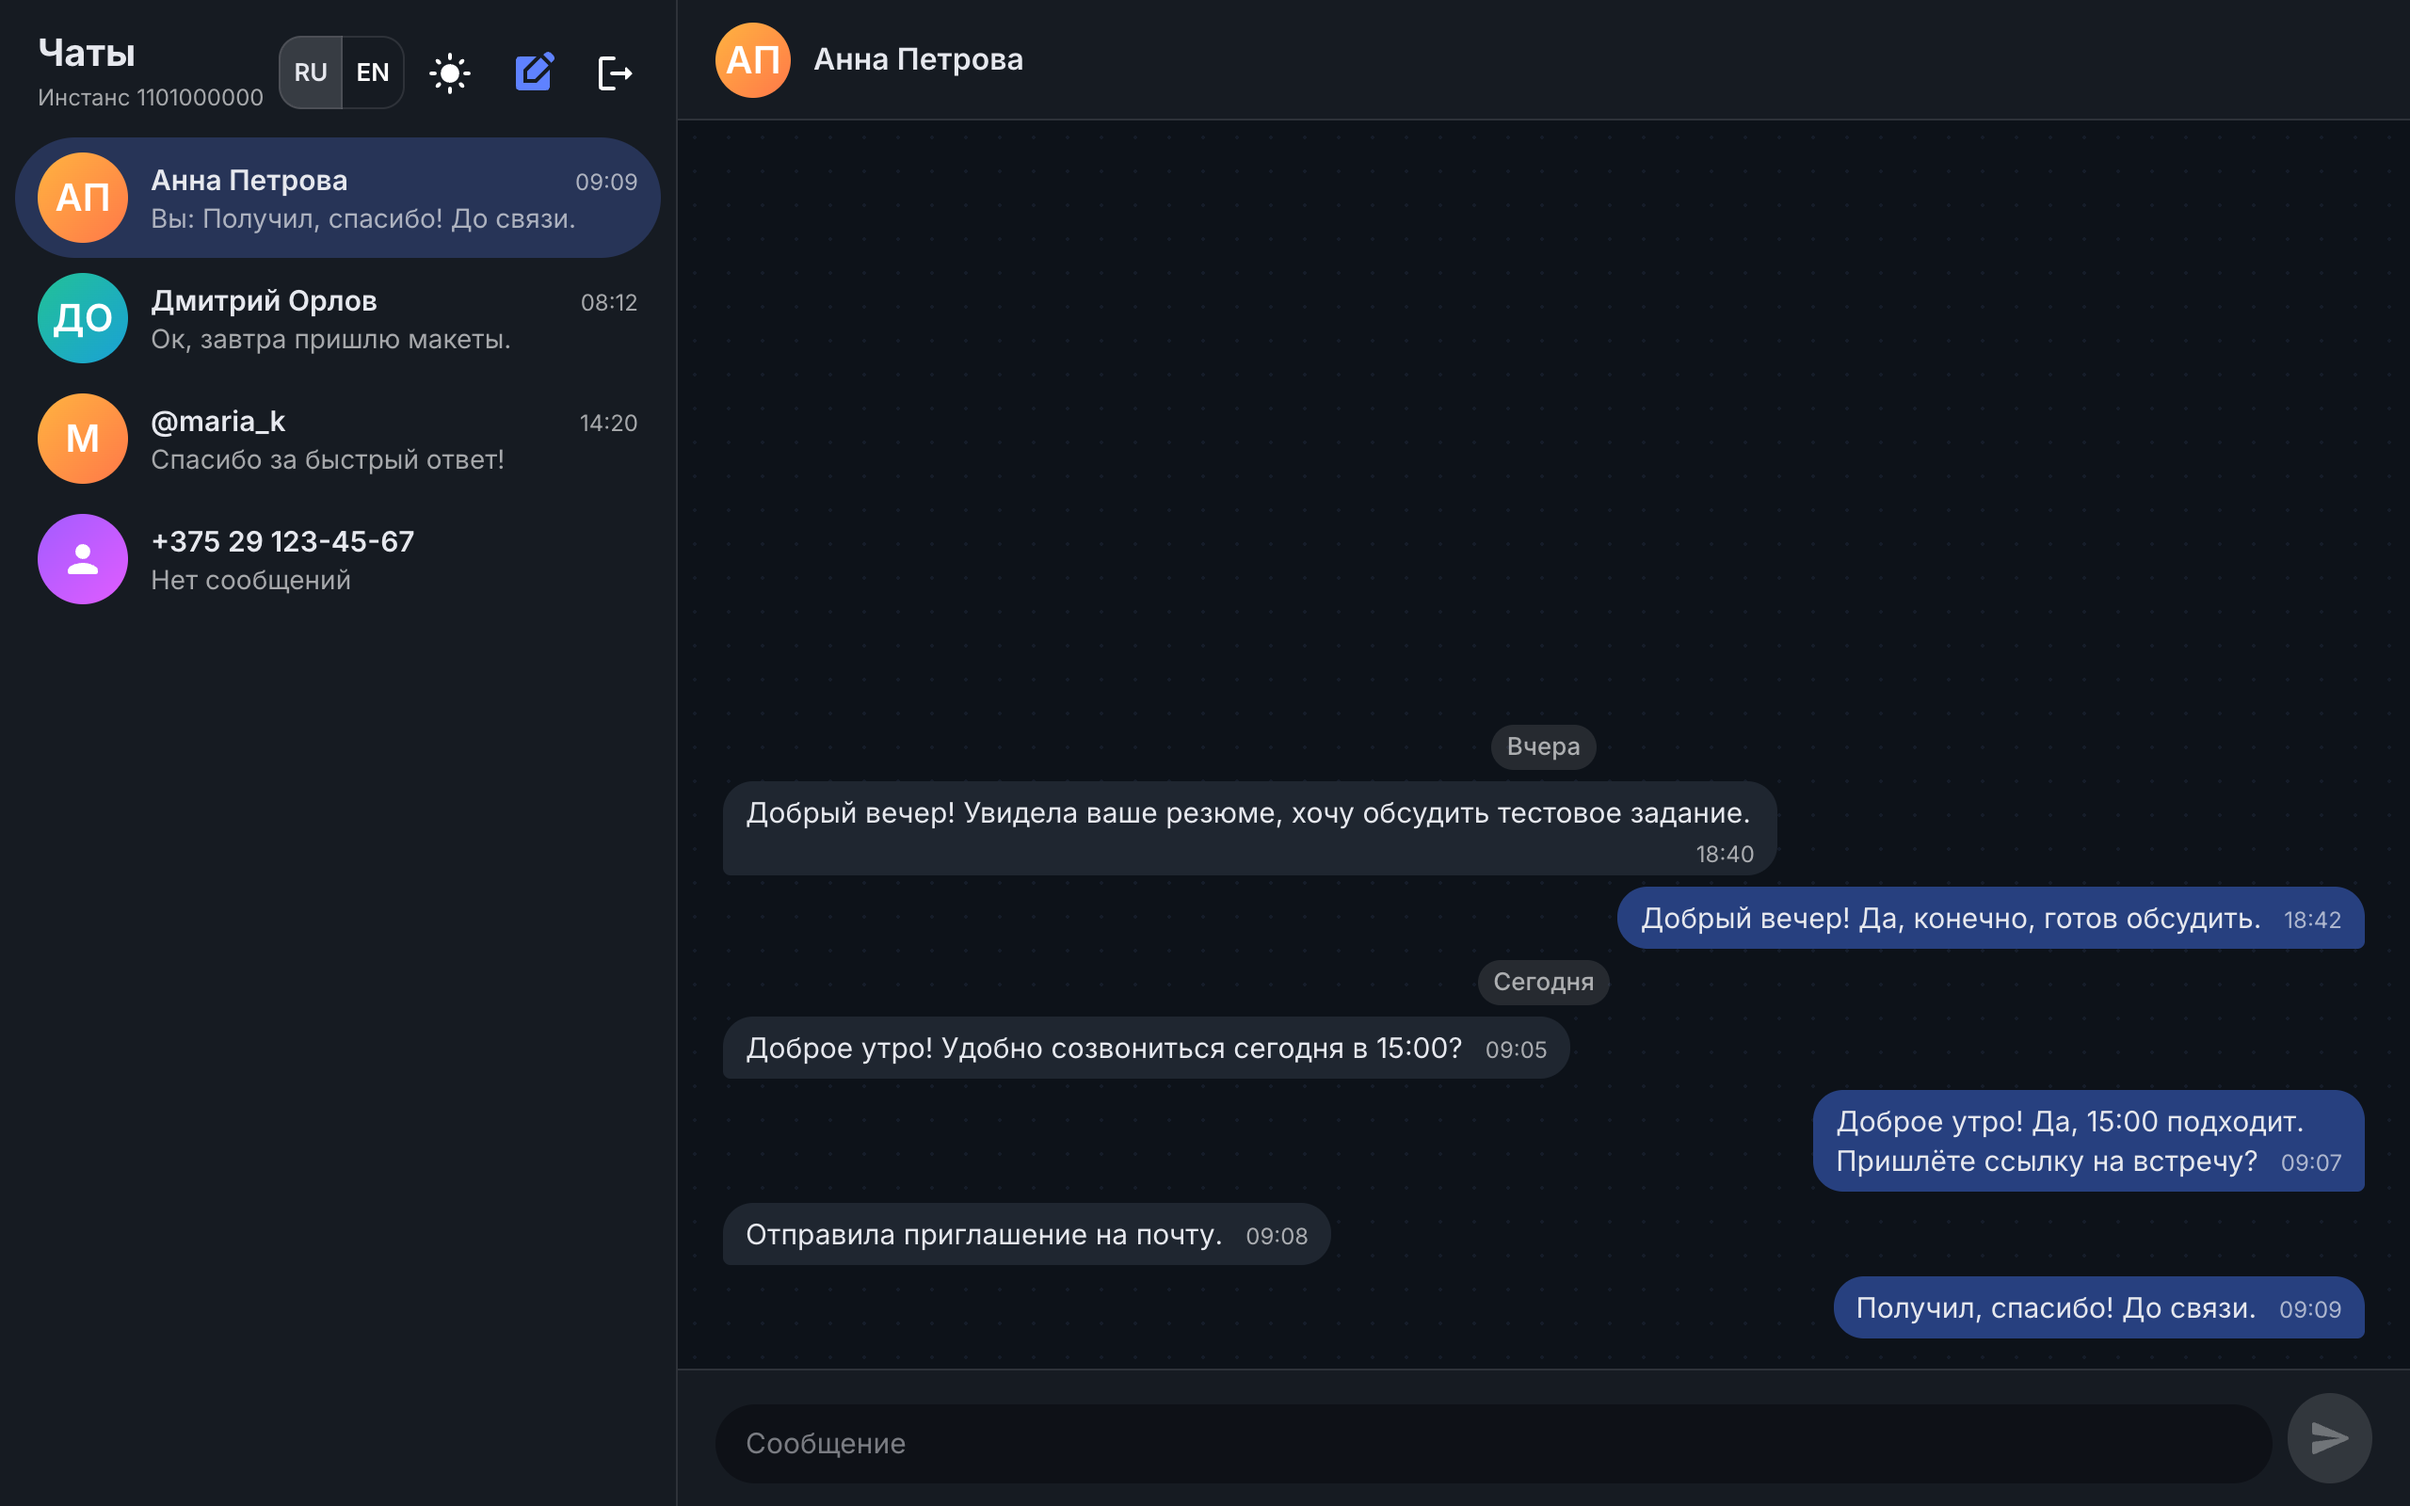
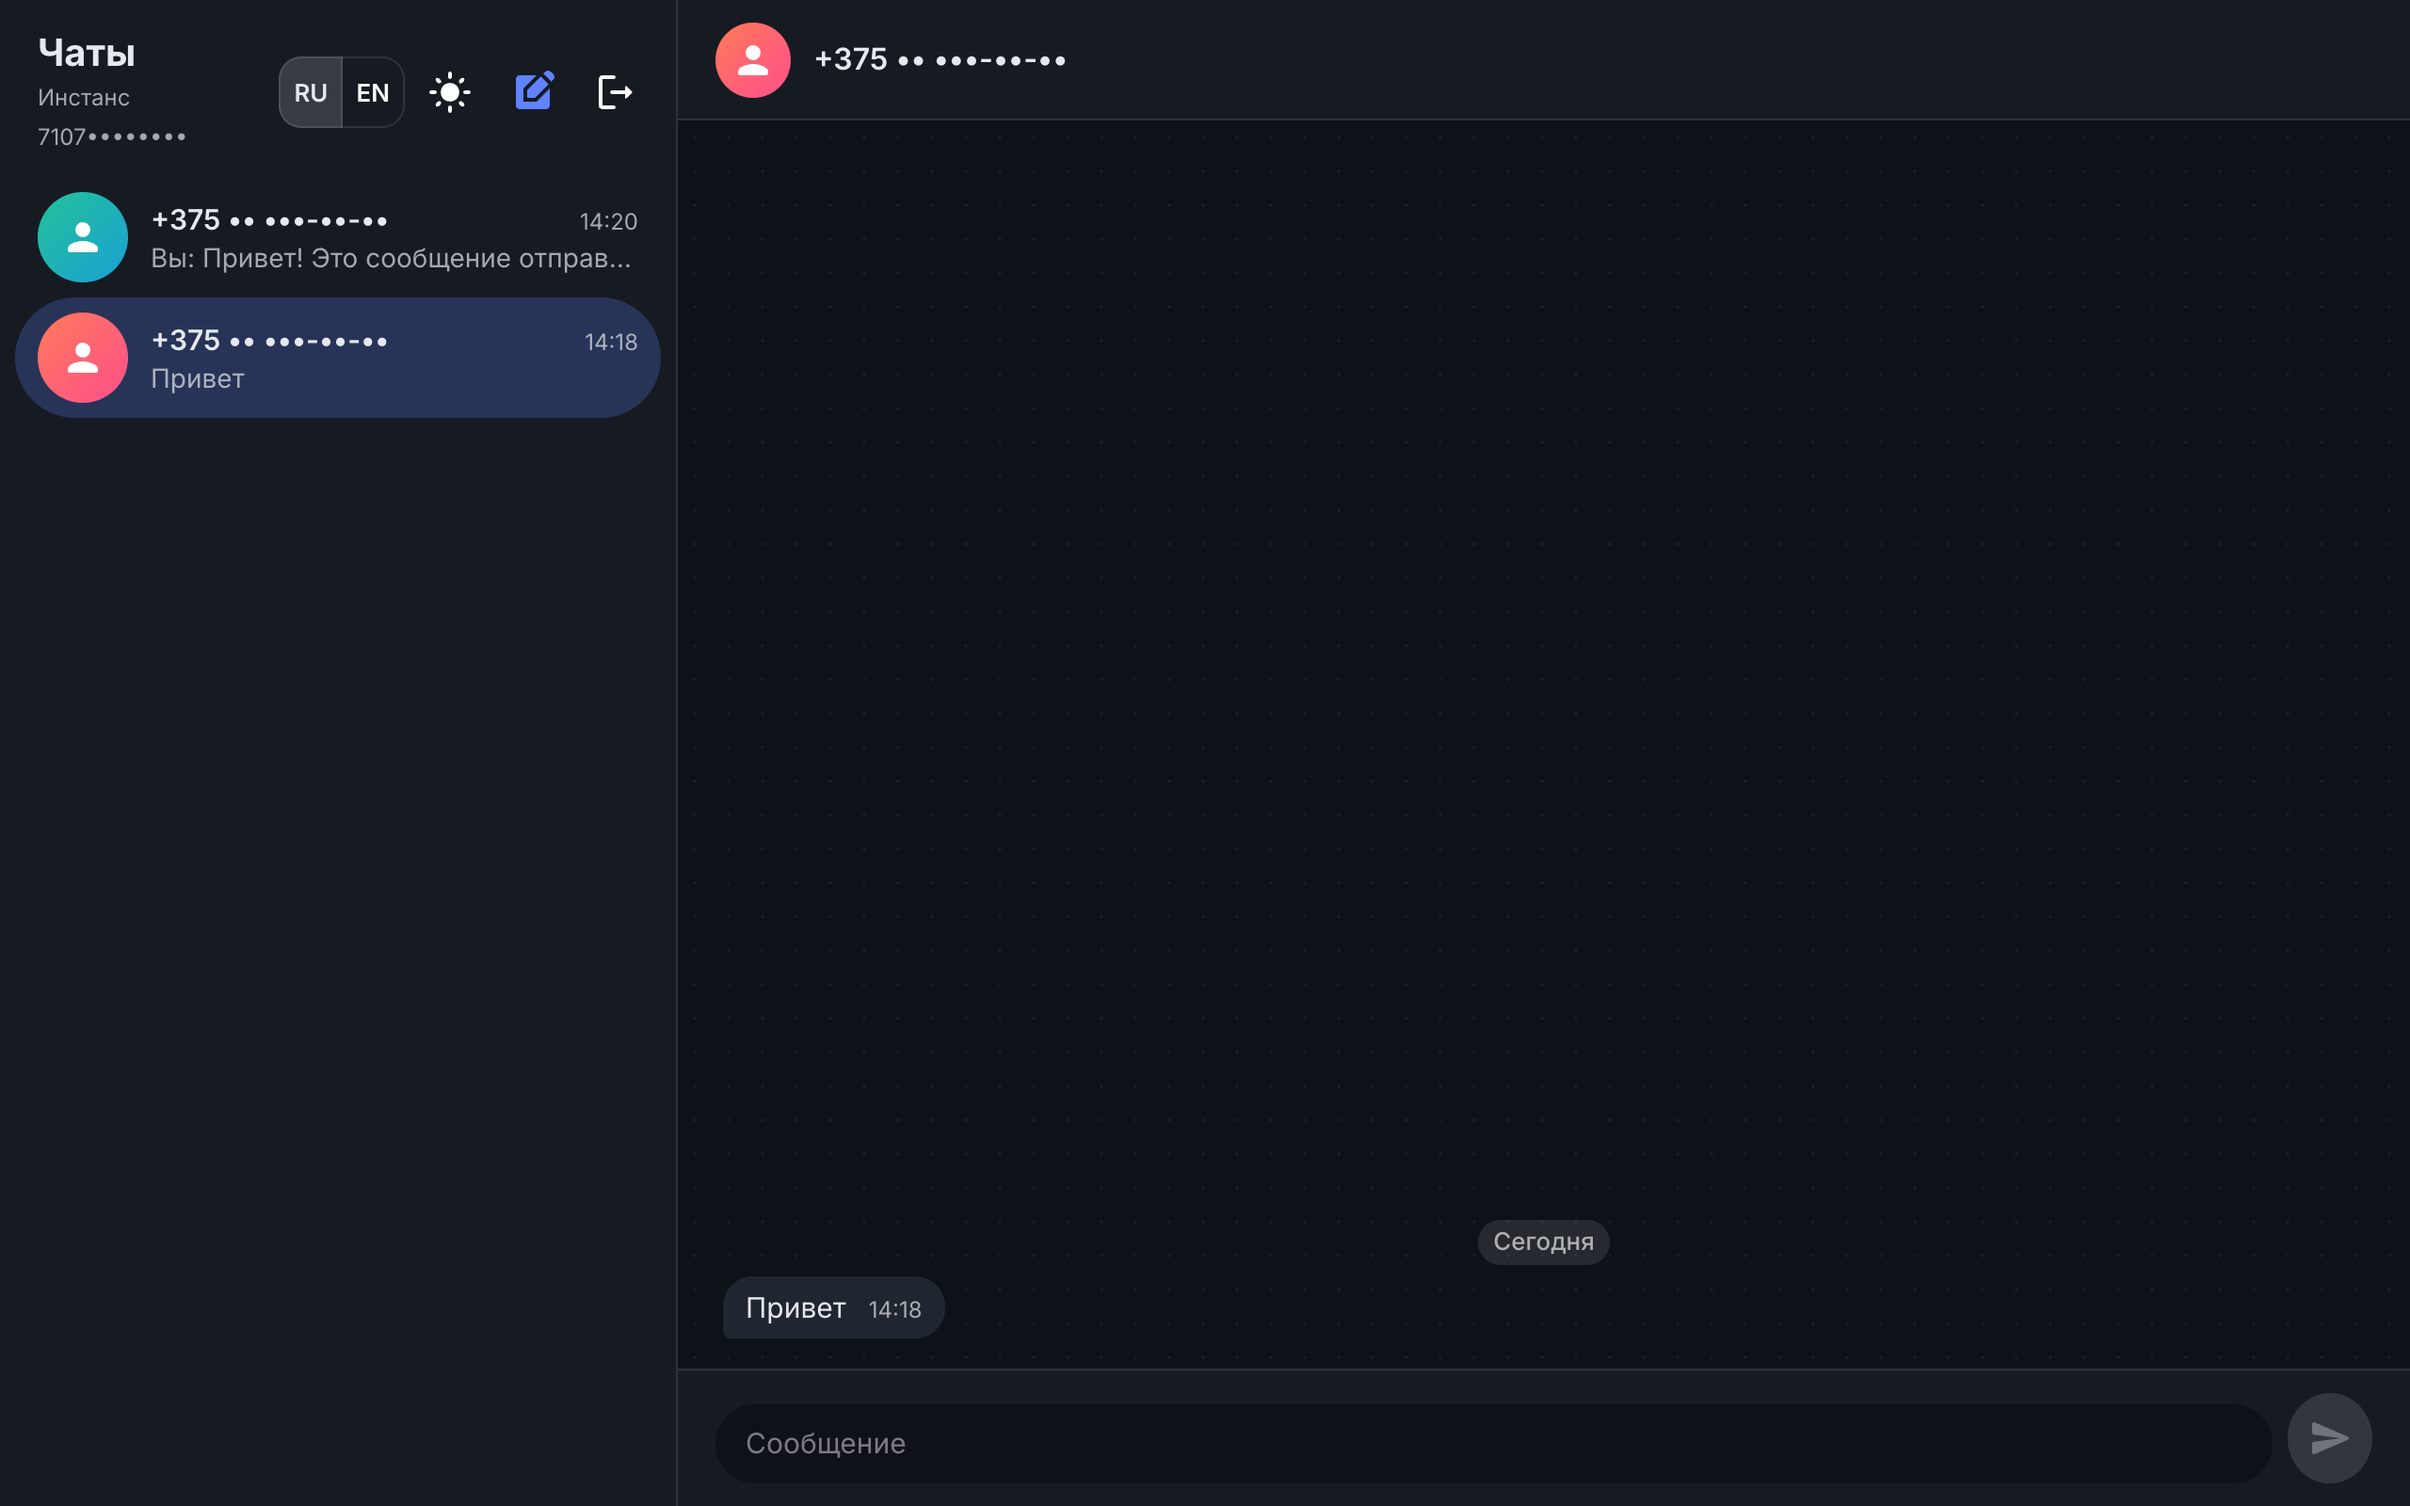
docs: replace screenshots with captures from a live WhatsApp instance

diff --git a/README.md b/README.md
@@ -8,9 +8,11 @@
 
 ## Скриншоты
 
-| Вход                                   | Загрузка истории (скелетон)                  |
-| -------------------------------------- | -------------------------------------------- |
-| ![Вход](docs/screenshots/login.png)    | ![Скелетон](docs/screenshots/skeleton.png)   |
+Скриншоты сняты на живом WhatsApp-инстансе GREEN-API (реальные запросы, без подмены ответов). Номера телефонов и `idInstance` скрыты.
+
+| Вход                                   |
+| -------------------------------------- |
+| ![Вход](docs/screenshots/login.png)    |
 
 | Мобильная версия: список чатов                   | Мобильная версия: чат                            | Новый чат (EN)                                    |
 | ------------------------------------------------ | ------------------------------------------------ | ------------------------------------------------- |
@@ -33,7 +35,7 @@
 9. Разделители по дням в переписке; чат не прокручивается вниз, пока вы читаете историю.
 10. Плашка «Нет связи», если не удаётся получить сообщения; она исчезает, как только связь восстановилась.
 11. Светлая и тёмная тема: по умолчанию как в системе, выбор сохраняется. Режим темы хранится в Zustand (`useAppStore`), цвета чата лежат в палитре темы MUI.
-12. Два мессенджера: Telegram и WhatsApp выбираются на входе. Остальное (отправка, приём, история) у них общее. Для WhatsApp проверка номера и формат `chatId` реализованы по документации GREEN-API, на живом инстансе ещё не проверялись.
+12. Два мессенджера: Telegram и WhatsApp выбираются на входе. Остальное (отправка, приём, история) у них общее. WhatsApp проверен на живом инстансе: вход, проверка номера, отправка и приём. Telegram реализован по документации GREEN-API, на живом инстансе пока не проверялся.
 
 ## Стек
 
